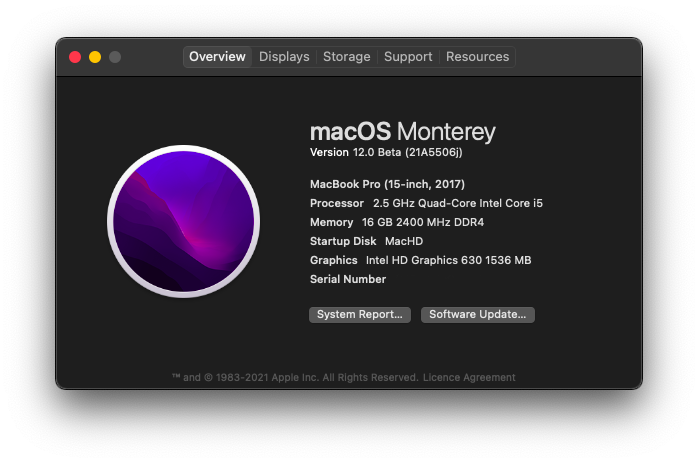
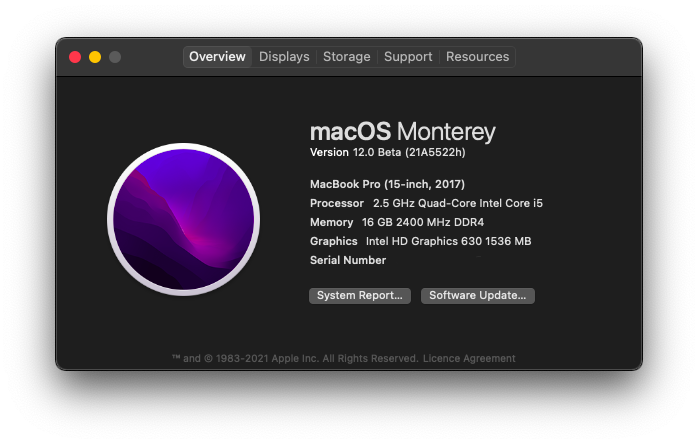
feat : updated to Monterey Beta 7

diff --git a/README.md b/README.md
@@ -4,11 +4,11 @@ If you loved my work, bestow it with a ⭐
 
 [![Preview](snap.png)](https://github.com/afkniladri/Acer-Nitro5-Hackintosh-OC/)
 
-# macOS 12 Beta 6 : Monterey
+# macOS 12 Beta 7 : Monterey
 
 The project was made from scratch with the help of [Opencore - Dortania Guide](https://dortania.github.io/OpenCore-Install-Guide/). A huge thanks to the awesome community for the documantation.
 
-`Opencore Version : 0.7.3` 
+`Opencore Version : 0.7.4 Development Build (commit 1cb8490) ` 
 
 ## Contents
 
